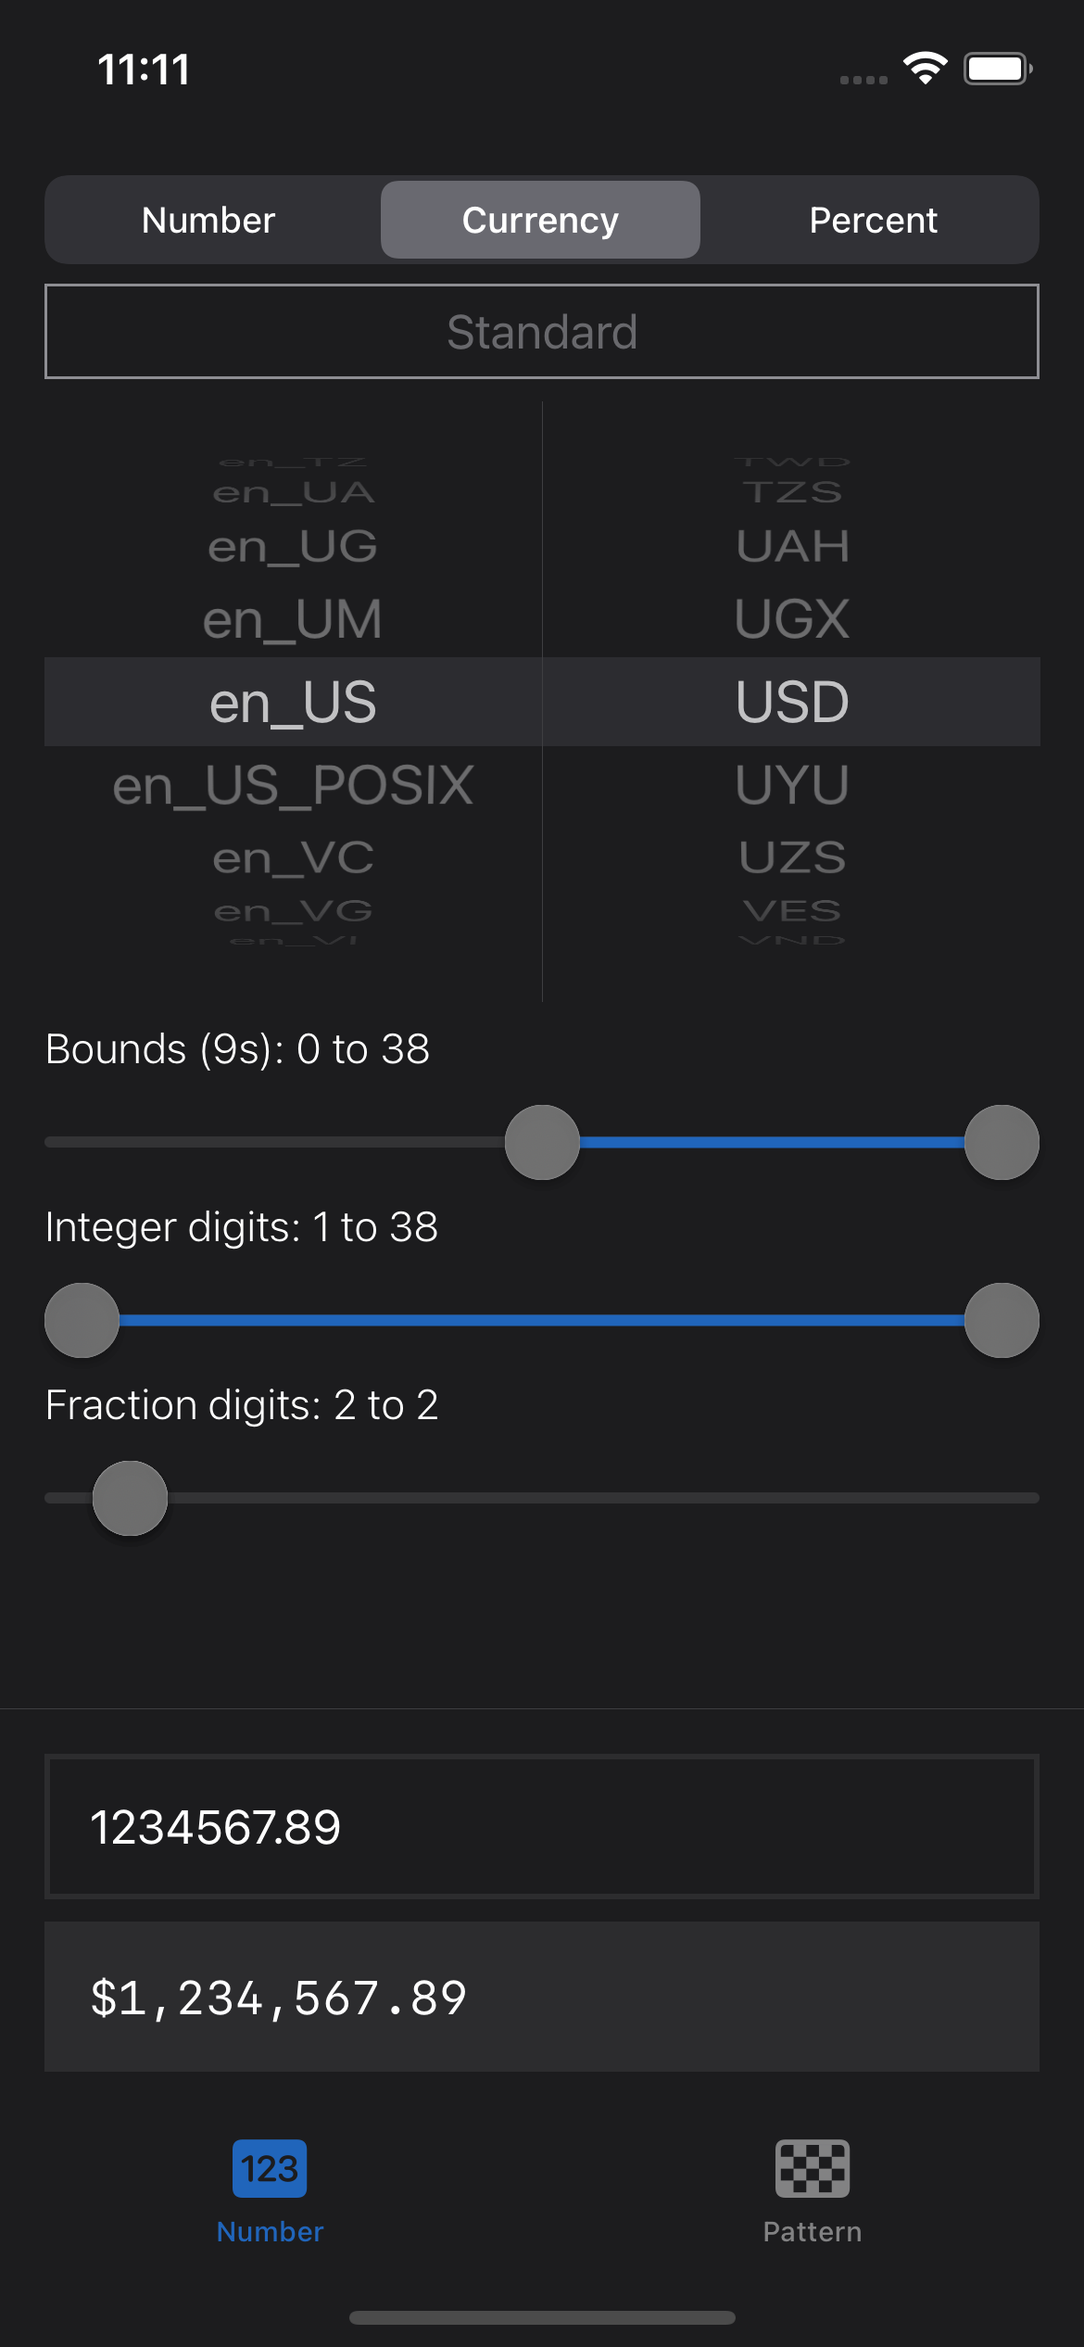
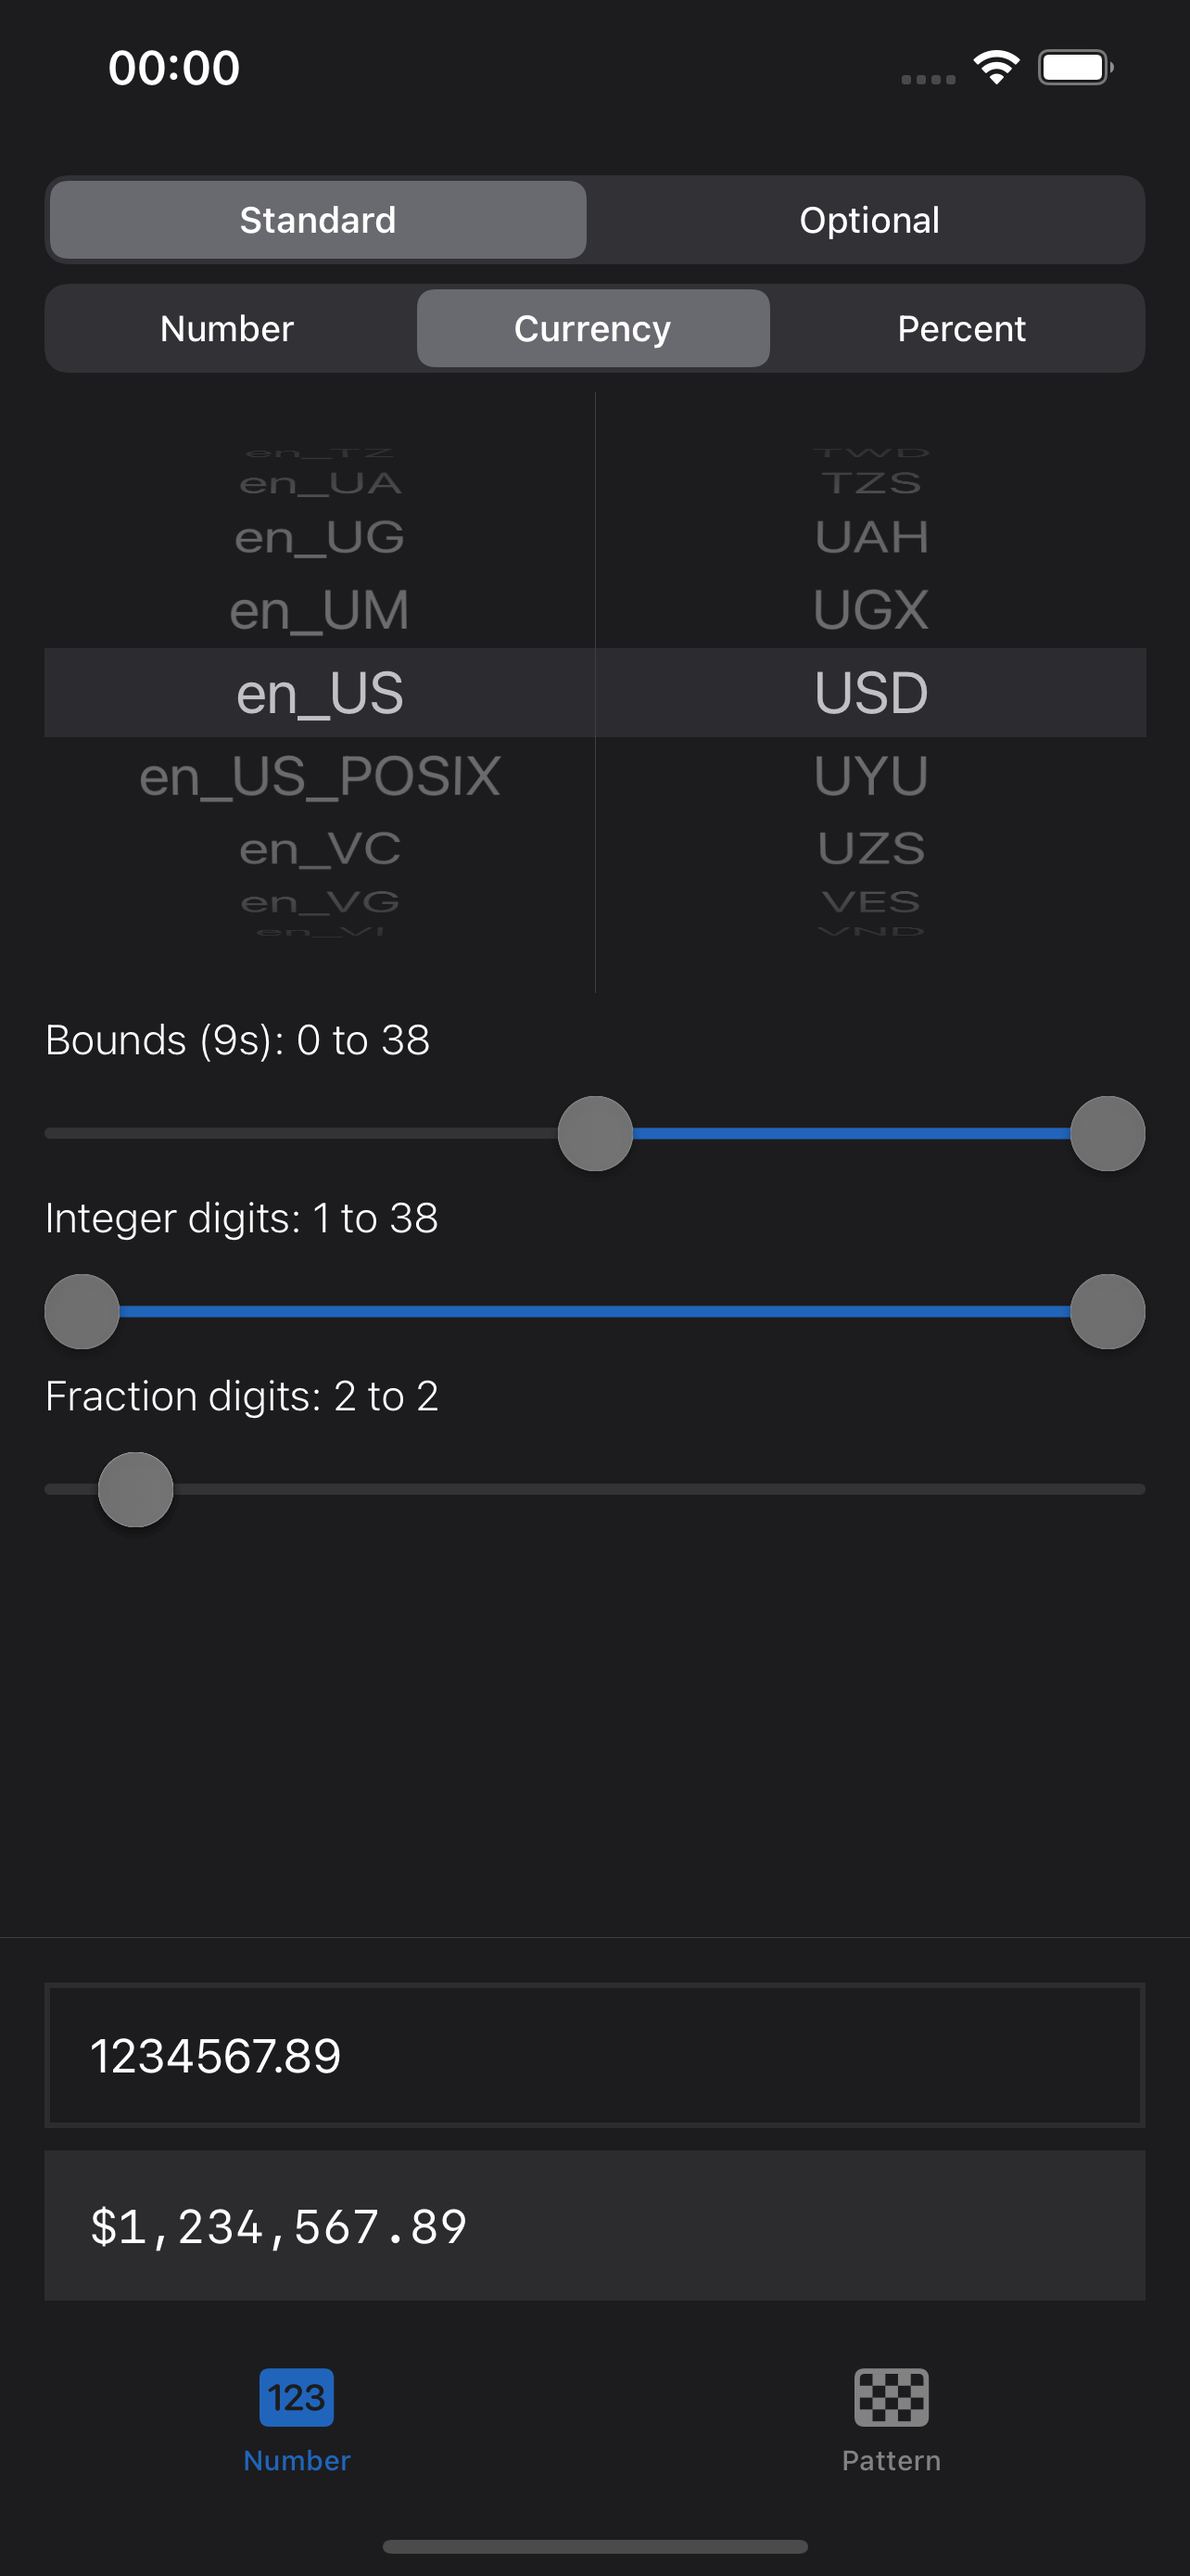
Cleanup.

diff --git a/Examples/DiffableTextAppXUIKit/App/Screens.Number/NumberScreenExampleViews.swift b/Examples/DiffableTextAppXUIKit/App/Screens.Number/NumberScreenExampleViews.swift
@@ -18,6 +18,7 @@ import DiffableTextViews
 struct NumberScreenExample: View {
     typealias Context = NumberScreenContext
     typealias FormatID = Context.FormatID
+    typealias OptionalityID = Context.OptionalityID
 
     //=------------------------------------------------------------------------=
     // MARK: State
@@ -25,21 +26,21 @@ struct NumberScreenExample: View {
     
     let context: Context
     
-    @ObservedObject var optional: Observable<Bool>
-    @ObservedObject var format: Observable<FormatID>
     @ObservedObject var locale: Observable<Locale>
     @ObservedObject var currency: Observable<String>
+    @ObservedObject var format: Observable<FormatID>
+    @ObservedObject var optionality: Observable<OptionalityID>
 
     //=------------------------------------------------------------------------=
     // MARK: Initializers
     //=------------------------------------------------------------------------=
     
-    @inlinable init(  _ context: Context) {
-        self.context  = context
-        self.optional = context.optional
-        self.format   = context.format
-        self.locale   = context.locale
+    @inlinable init( _ context: Context) {
+        self.context = context
+        self.locale = context.locale
         self.currency = context.currency
+        self.format = context.format
+        self.optionality = context.optionality
     }
     
     //=------------------------------------------------------------------------=
@@ -47,13 +48,13 @@ struct NumberScreenExample: View {
     //=------------------------------------------------------------------------=
     
     var body: some View {
-        switch (optional.wrapped, format.wrapped) {
-        case (false,   .number): decimalStandardNumberView
-        case (false, .currency): decimalStandardCurrencyView
-        case (false,  .percent): decimalStandardPercentView
-        case (true,    .number): decimalOptionalNumberView
-        case (true,  .currency): decimalOptionalCurrencyView
-        case (true,   .percent): decimalOptionalPercentView
+        switch (optionality.wrapped, format.wrapped) {
+        case (.standard,    .number): decimalStandardNumberView
+        case (.standard,  .currency): decimalStandardCurrencyView
+        case (.standard,   .percent): decimalStandardPercentView
+        case (.optional,   .number): decimalOptionalNumberView
+        case (.optional, .currency): decimalOptionalCurrencyView
+        case (.optional,  .percent): decimalOptionalPercentView
         }
     }
     

diff --git a/Examples/DiffableTextAppXUIKit/App/Screens.Pattern/PatternScreenExampleViews.swift b/Examples/DiffableTextAppXUIKit/App/Screens.Pattern/PatternScreenExampleViews.swift
@@ -18,7 +18,8 @@ import DiffableTextViews
 struct PatternScreenExample: View {
     typealias Style = PatternTextStyle<String>
     typealias Context = PatternScreenContext
-    typealias Kind = Context.Kind
+    typealias Pattern = Context.PatternID
+    typealias Visibility = Context.VisibilityID
     
     
     //=------------------------------------------------------------------------=
@@ -26,8 +27,8 @@ struct PatternScreenExample: View {
     //=------------------------------------------------------------------------=
     
     let context: Context
-    @ObservedObject var kind: Observable<Kind>
-    @ObservedObject var visible: Observable<Bool>
+    @ObservedObject var pattern: Observable<Pattern>
+    @ObservedObject var visibility: Observable<Visibility>
     
     //=------------------------------------------------------------------------=
     // MARK: Initializers
@@ -35,8 +36,8 @@ struct PatternScreenExample: View {
     
     init(_ context: Context) {
         self.context = context
-        self.kind = context.kind
-        self.visible = context.visible
+        self.pattern = context.pattern
+        self.visibility = context.visibility
     }
     
     //=------------------------------------------------------------------------=
@@ -44,9 +45,16 @@ struct PatternScreenExample: View {
     //=------------------------------------------------------------------------=
     
     var style: Style {
-        switch kind.wrapped {
+        switch pattern.wrapped {
         case  .card: return Self .card
         case .phone: return Self.phone
+        }
+    }
+    
+    var visible: Bool {
+        switch visibility.wrapped {
+        case .visible: return  true
+        case  .hidden: return false
         }
     }
     
@@ -55,7 +63,7 @@ struct PatternScreenExample: View {
     //=------------------------------------------------------------------------=
     
     var body: some View {
-        PatternScreenExampleX(context, style: style.hidden(!visible.wrapped))
+        PatternScreenExampleX(context, style: style.hidden(!visible))
     }
     
     //=------------------------------------------------------------------------=

diff --git a/Examples/DiffableTextAppXUIKit/App/Views/Action.swift b/Examples/DiffableTextAppXUIKit/App/Views/Action.swift
@@ -30,29 +30,19 @@ struct Action: View {
         self.title = title
         self.action = action
     }
-    
-    //=------------------------------------------------------------------------=
-    // MARK: Measurements
-    //=------------------------------------------------------------------------=
-    
-    var height: CGFloat { 24 }
-    
+
     //=------------------------------------------------------------------------=
     // MARK: Body
     //=------------------------------------------------------------------------=
     
     var body: some View {
-        Button(action: action, label: label)
-            .tint(Color.gray.opacity(2/3))
-            .buttonStyle(.borderedProminent)
-    }
-    
-    //=------------------------------------------------------------------------=
-    // MARK: Body
-    //=------------------------------------------------------------------------=
-    
-    func label() -> some View {
-        Text(title).frame(maxWidth: .infinity, minHeight: height, maxHeight: height)
+        Button(action: action) {
+            Text(title)
+                .font(.subheadline)
+                .frame(height:  16)
+                .frame(maxWidth: .infinity)
+        }
+        .tint(Color.gray.opacity(2/3))
+        .buttonStyle(.borderedProminent)
     }
 }
-

diff --git a/Examples/DiffableTextAppXUIKit/App/Screens.Number/NumberScreenContext.swift b/Examples/DiffableTextAppXUIKit/App/Screens.Number/NumberScreenContext.swift
@@ -20,8 +20,8 @@ final class NumberScreenContext: ObservableObject {
     // MARK: State
     //=------------------------------------------------------------------------=
     
-    let decimals = ObservableTwinValues(Decimal(string: "1234567.89")!)
-    let optional = Observable(false)
+    let decimals = ObservableTwinValues(Decimal(string: "1234567.89")!)    
+    let optionality = Observable(OptionalityID.standard)
 
     let format = Observable(FormatID.currency)
     let locale = Observable(Locale(identifier: "en_US"))
@@ -40,5 +40,11 @@ final class NumberScreenContext: ObservableObject {
     // MARK: Declaration
     //*========================================================================*
     
-    enum FormatID: String, CaseIterable { case number, currency, percent }
+    enum FormatID: String, CaseIterable {
+        case number, currency, percent
+    }
+    
+    enum OptionalityID: String, CaseIterable {
+        case standard, optional
+    }
 }

diff --git a/Examples/DiffableTextAppXUIKit/App/Screens.Pattern/PatternScreenContext.swift b/Examples/DiffableTextAppXUIKit/App/Screens.Pattern/PatternScreenContext.swift
@@ -19,9 +19,9 @@ final class PatternScreenContext: ObservableObject {
     // MARK: State
     //=------------------------------------------------------------------------=
     
-    let value = Observable("12345678")
-    let kind = Observable(Kind.phone)
-    let visible = Observable(true)
+    let value = Observable("123456789")
+    let pattern = Observable(PatternID.phone)
+    let visibility = Observable(VisibilityID.visible)
     
     //=------------------------------------------------------------------------=
     // MARK: Utilities
@@ -50,5 +50,11 @@ final class PatternScreenContext: ObservableObject {
     // MARK: Kind
     //*========================================================================*
     
-    enum Kind: String, CaseIterable { case phone, card }
+    enum PatternID: String, CaseIterable {
+        case phone, card
+    }
+    
+    enum VisibilityID: String, CaseIterable {
+        case visible, hidden
+    }
 }

diff --git a/Examples/DiffableTextAppXUIKit/App/Views/Toggler.swift b/Examples/DiffableTextAppXUIKit/App/Views/Toggler.swift
@@ -37,11 +37,12 @@ struct Toggler: View {
     var body: some View {
         Toggle(isOn: isOn.xwrapped) {
             Text(title)
+                .font(.subheadline)
                 .frame(maxWidth: .infinity)
                 .contentShape(Rectangle())
                 .animation(nil, value: isOn.wrapped)
         }
-        .tint(Color.gray.opacity(2/3))
+        .tint(Color.gray.opacity(0.6))
         .background(Rectangle().strokeBorder(.gray))
         .animation(.default, value: isOn.wrapped)
         .toggleStyle(.button)

diff --git a/Examples/DiffableTextAppXUIKit/App/Screens.Pattern/PatternScreen.swift b/Examples/DiffableTextAppXUIKit/App/Screens.Pattern/PatternScreen.swift
@@ -30,9 +30,9 @@ struct PatternScreen: View {
     var body: some View {
         Screen {
             Scroller {
-                Segments(context.kind.xwrapped)
+                Segments(context.pattern.xwrapped)
                 
-                PatternScreenVisibilityToggle(visible: context.visible)
+                Segments(context.visibility.xwrapped)                
                 
                 PatternScreenActionsStack(context)
                 

diff --git a/Examples/DiffableTextAppXUIKit/App/Screens.Number/NumberScreen.swift b/Examples/DiffableTextAppXUIKit/App/Screens.Number/NumberScreen.swift
@@ -29,9 +29,9 @@ struct NumberScreen: View {
     var body: some View {
         Screen {
             Scroller {
-                Segments(context.format.xwrapped)
+                Segments(context.optionality.xwrapped)
                 
-                NumberScreenOptionalToggle(context.optional)
+                Segments(context.format.xwrapped)
                 
                 NumberScreenOptionsWheel(context)
                 
